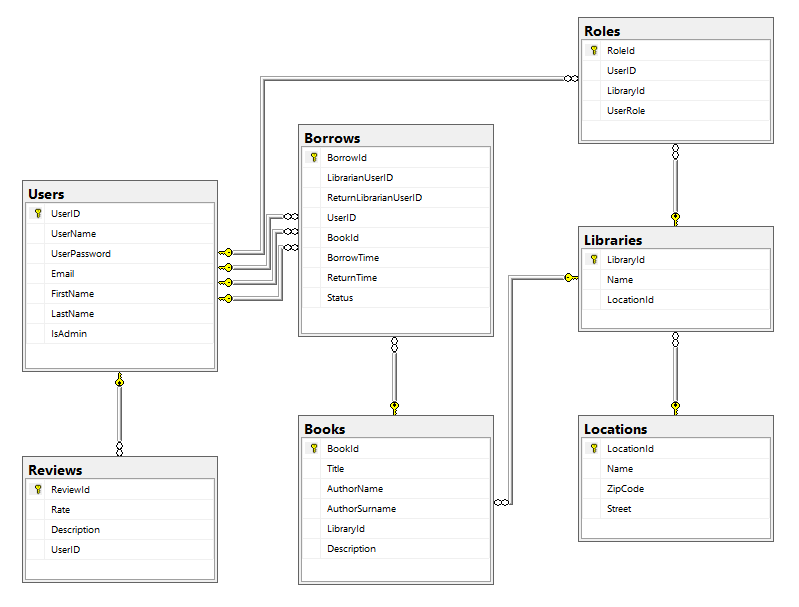
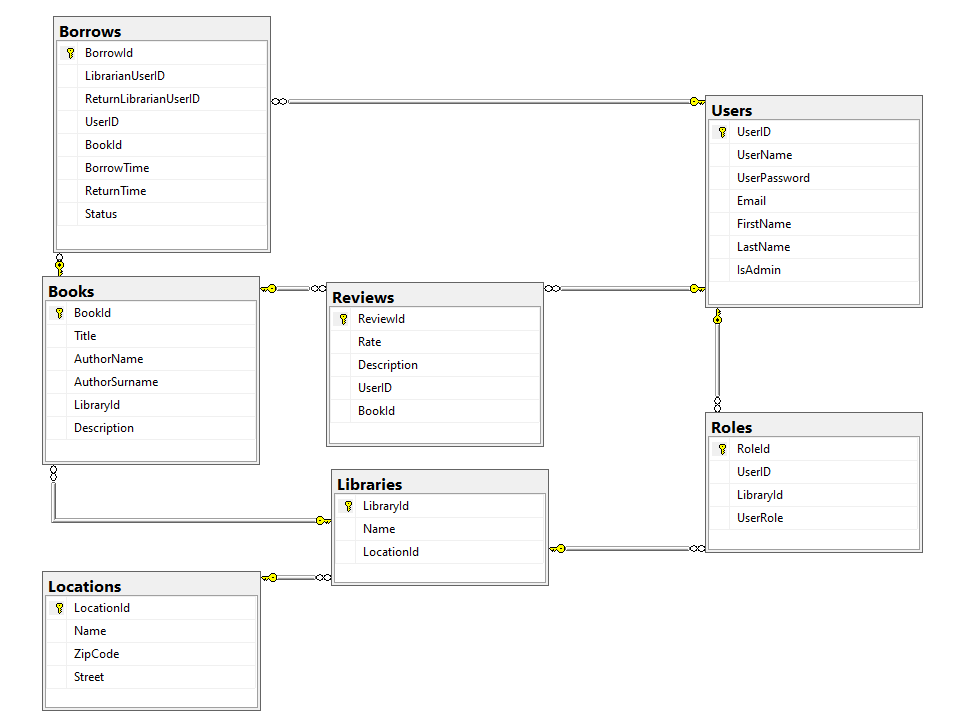
Add connection between Book and Review

diff --git a/App/App/Models/Book.cs b/App/App/Models/Book.cs
@@ -35,6 +35,7 @@ namespace App.Models
         public Library Library { get; set; }
 
         public ICollection<Borrow> Borrows { get; set; }
+        public ICollection<Review> Reviews { get; set; }
 
         [NotMapped]
         public string AuthorFullName { get => AuthorName + ' ' + AuthorSurname; }

diff --git a/App/App/Models/Review.cs b/App/App/Models/Review.cs
@@ -21,5 +21,8 @@ namespace App.Models
 
         [Required]
         public User User { get; set; }
+
+        [Required]
+        public Book Book { get; set; }
     }
 }
